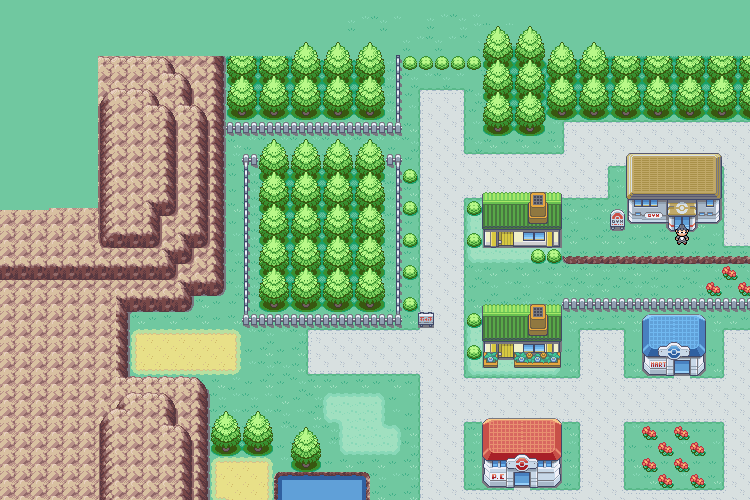
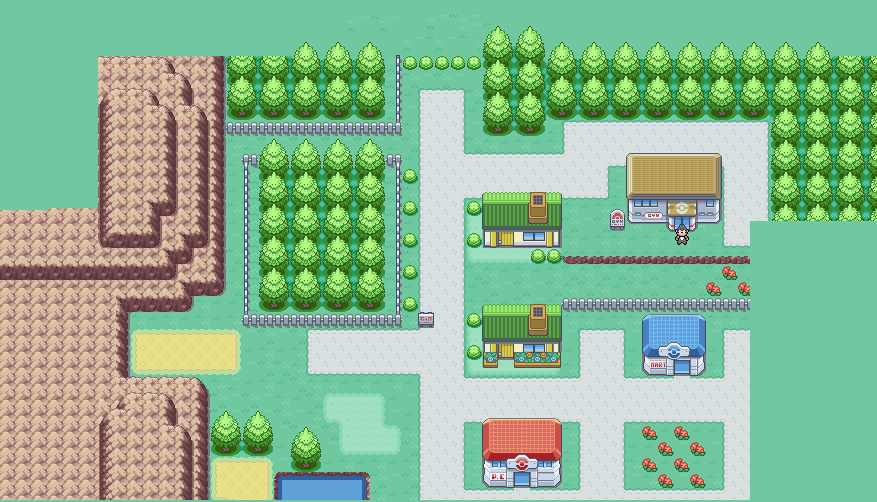
[ADDED] New srites [MODIFIED] all position of sprites

diff --git a/src/load_object.c b/src/load_object.c
@@ -32,8 +32,8 @@ object_t *load_object(object_t *obj)
     obj[1] = create_object("pictures/logo.png", (sfVector2f){1750, 280});
     obj[2] = create_object("pictures/intro2.jpg", (sfVector2f){0, 0});
     obj[3] = create_object("pictures/background.png", (sfVector2f){0, 0});
-    obj[4] = create_object("pictures/character.png", (sfVector2f){111, 94});
-    //x = 272 y = 1358
+    obj[4] = create_object("pictures/character.png", (sfVector2f){271, 1356});
+    //x = 271 y = 1356
     obj[5] = create_object("pictures/pause.jpg", (sfVector2f){0, 0});
     obj[6] = create_object("pictures/exit1.png", (sfVector2f){725, 700});
     obj[7] = create_object("pictures/exit2.png", (sfVector2f){725, 700});
@@ -65,11 +65,11 @@ object_t *load_object2(object_t *obj)
     obj[28] = create_object("pictures/battle.png", (sfVector2f){0, 0});
     obj[29] = create_object("pictures/cursor.png", (sfVector2f){848, 662});
     obj[30] = create_object("pictures/key.png", (sfVector2f){575, 200});
-    obj[31] = create_object("pictures/ui.png", (sfVector2f){205, 50});
-    obj[32] = create_object("pictures/text.png", (sfVector2f){0, 0});
+    obj[31] = create_object("pictures/ui.png", (sfVector2f){271 + 95, 1356 - 44});
+    //obj[32] = create_object("pictures/text.png", (sfVector2f){0, 0});
     obj[33] = create_object("pictures/3d_effect.png", (sfVector2f){0, 0});
     obj[34] = create_object("pictures/inventory.png", (sfVector2f){0, 0});
-    obj[35] = create_object("pictures/leavek.png", (sfVector2f){57, 700});
+    obj[35] = create_object("pictures/leave.png", (sfVector2f){57, 700});
     obj = load_object3(obj);
     return (obj);
 }
@@ -77,9 +77,9 @@ object_t *load_object2(object_t *obj)
 object_t *load_object3(object_t *obj)
 {
     obj[36] = create_object("pictures/back.png", (sfVector2f){-98, -56});
-    obj[37] = create_object("pictures/quest1.png", (sfVector2f){85, 55});
-    obj[38] = create_object("pictures/quest2.png", (sfVector2f){85, 55});
-    obj[39] = create_object("pictures/quest3.png", (sfVector2f){85, 55});
+    obj[37] = create_object("pictures/quest1.png", (sfVector2f){271 - 26, 1356 - 39});
+    obj[38] = create_object("pictures/quest2.png", (sfVector2f){271 - 26, 1356 - 39});
+    obj[39] = create_object("pictures/quest3.png", (sfVector2f){271 - 26, 1356 - 39});
     obj[40] = create_object("pictures/text1.png", (sfVector2f){346, 1518});
     obj[41] = create_object("pictures/text2.png", (sfVector2f){218, 768});
     return (obj);

diff --git a/src/init_game.c b/src/init_game.c
@@ -16,7 +16,7 @@ void load_window(game_t *game)
     sfRenderWindow_setFramerateLimit(game->window, 60);
     game->view = sfView_createFromRect((sfFloatRect) {0, 0, 192, 152});
     game->view_2 = sfView_createFromRect((sfFloatRect) {0, 0, 1600, 900});
-    sfView_setCenter(game->view, (sfVector2f){25 + 111, 25 + 95});
+    sfView_setCenter(game->view, (sfVector2f){25 + 271, 25 + 1356});
     game->clock = sfClock_create();
     game->clock_2 = sfClock_create();
     game->music = sfMusic_createFromFile("sound/music.ogg");
